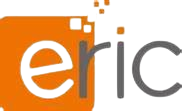
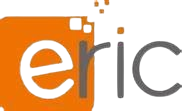
CModification

diff --git a/index.html b/index.html
@@ -40,13 +40,13 @@
     <!-- Figures (droite) -->
     <div class="flex-1 flex gap-4 justify-center md:justify-end">
       <!-- Figure 1 -->
-      <figure class="w-40 bg-white rounded shadow p-2">
+      <figure class="w-30 bg-white rounded shadow p-2">
         <img src="1.png" alt="Wetikio" class="w-full h-auto object-contain rounded">
         <figcaption class="text-sm text-center mt-2 text-gray-600"></figcaption>
       </figure>
 
       <!-- Figure 2 -->
-      <figure class="w-40 bg-white rounded shadow p-2">
+      <figure class="w-30 bg-white rounded shadow p-2">
         <img src="ERIC.png" alt="ERIC " class="w-full h-auto object-contain rounded">
         <figcaption class="text-sm text-center mt-2 text-gray-600"></figcaption>
       </figure>
